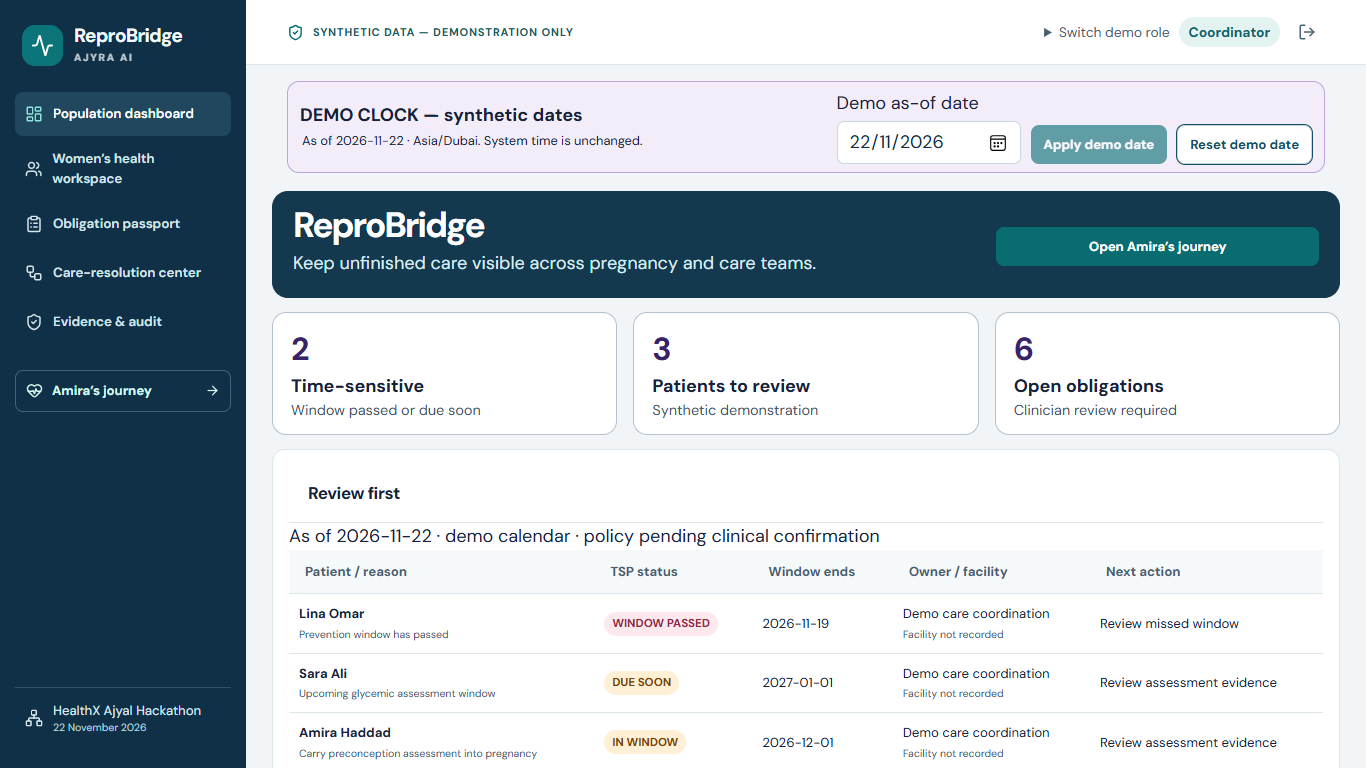
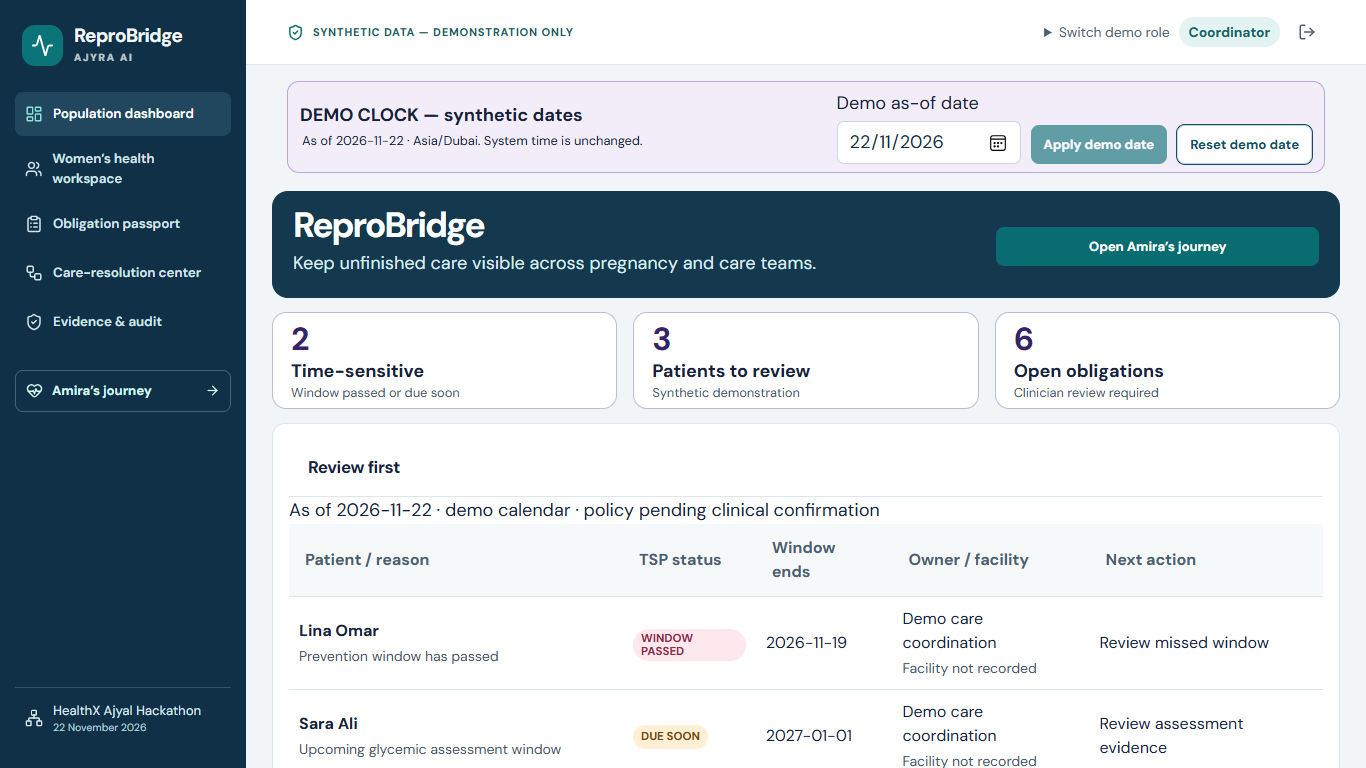
test(dashboard): verify projector views role switching and full release gates

diff --git a/frontend/src/style.css b/frontend/src/style.css
@@ -316,3 +316,7 @@ a.record-link:hover { background: #f0f7f8; }
 body { font-size: 18px; color: #17213a; } .jury-hero { padding: 24px; min-height: 0; } .jury-hero h1 {font-size: 2.6rem;} .jury-kpis {display:grid;grid-template-columns:repeat(3,minmax(0,1fr));gap:16px;} .jury-kpis>div {background:white;border:1px solid #b6c0ce;border-radius:14px;padding:20px;display:grid;} .jury-kpis strong {font-size:2.4rem;color:#382369;} .jury-kpis span {font-weight:700;} .jury-kpis small,.jury-activity small {display:block;color:#44536a;} .jury-activity {list-style:none;padding:0;display:grid;gap:16px;} .admin-content {display:grid;gap:20px;margin-top:20px;} .journey-strip {display:flex;flex-wrap:wrap;gap:14px;background:#f0eaf8;padding:14px;border-radius:12px;} td small {display:block;color:#44536a;} @media(max-width:600px){.jury-kpis{grid-template-columns:1fr;} .jury-hero{display:grid;} }
 
 @media(min-width:1000px){body:has(.jury-hero) main{padding:18px 26px;gap:14px;}body:has(.jury-hero) .tsp-clock{display:flex;justify-content:space-between;align-items:center;padding:8px 12px;}body:has(.jury-hero) .tsp-clock p{margin:2px;font-size:.8rem;} .jury-hero{padding:14px 20px;} .jury-hero h1{margin:0;font-size:2.2rem;} .jury-hero p{margin:6px 0;} .jury-kpis>div{padding:12px 18px;} .jury-kpis strong{font-size:2rem;}body:has(.jury-hero) .panel{padding:16px;}body:has(.jury-hero) td{padding:10px;} }
+
+.jury-kpis + section.panel td, .jury-kpis + section.panel th {font-size:16px;} .jury-kpis + section.panel td small {font-size:14px;}
+
+.jury-kpis>div{padding:8px 18px;} .jury-kpis strong{line-height:1.15;} .jury-kpis small{font-size:.8rem;line-height:1.2;}

diff --git a/frontend/e2e/journey.spec.ts b/frontend/e2e/journey.spec.ts
@@ -351,5 +351,15 @@ test('completes the patient journey through all five screens', async ({ page }, 
     await page.setViewportSize({width,height});
     await page.screenshot({path:`../demo-assets/dashboard-${width}x${height}.png`,fullPage:false,animations:'disabled'});
   }
+  await page.getByText('Switch demo role', {exact:true}).click();
+  await page.getByRole('combobox',{name:'Demo role',exact:true}).selectOption('reviewer');
+  await page.getByLabel('Existing role token').fill(process.env.E2E_REVIEWER_TOKEN!);
+  await page.getByRole('button',{name:'Switch role',exact:true}).click();
+  await expect(page.locator('.role')).toHaveText('Reviewer');
+  if(!(await page.getByLabel('Existing role token').isVisible())) await page.getByText('Switch demo role',{exact:true}).click();
+  await page.getByRole('combobox',{name:'Demo role',exact:true}).selectOption('coordinator');
+  await page.getByLabel('Existing role token').fill(process.env.E2E_COORDINATOR_TOKEN!);
+  await page.getByRole('button',{name:'Switch role',exact:true}).click();
+  await expect(page.locator('.role')).toHaveText('Coordinator');
 
 });

diff --git a/DASHBOARD_REPORT.md b/DASHBOARD_REPORT.md
@@ -1,0 +1,38 @@
+# Jury dashboard v1
+
+**GO for the synthetic demo dashboard.** Branch `feat/jury-dashboard`, based on passing `handoff-v1`. Annotated tag `dashboard-v1`.
+
+## Changes
+- `backend/app/jury.py`, `main.py`: default idempotent three-patient cohort (Amira Haddad, Lina Omar, Sara Ali), with existing pregnancy/obligation/event APIs and unchanged TSP policy/calculator. Explicit `REPROBRIDGE_TEST_MODE=true` retains diagnostic fixture creation and the legacy single-patient seed for tests. No migration/dependency or clinical-rule change.
+- `frontend/src/Jury.tsx`, `screens.tsx`, `App.tsx`, `style.css`: first KPI Time-sensitive (backend WINDOW_PASSED + DUE_SOON); urgency-sorted queue, backend window ends, owner, facility and next action; one-line hero/one journey button; demo-only collapsed Admin drawer; plain activity with IDs/versions in tooltips and explicitly labeled demo-calendar dates; workspace pregnancy-week/window strip; larger/high-contrast presentation.
+- Role switch uses the existing selected role's token and verifies its role through the existing session API. It never reveals/fetches another role's token or bypasses patient grants. Tokens are password inputs and are cleared after successful switching.
+- Tests: `backend/tests/test_jury.py`, explicit test mode in `test_workflow.py` and `frontend/playwright.config.ts`; `frontend/src/Jury.test.tsx`, extended `frontend/e2e/journey.spec.ts`.
+- Playwright captures: `demo-assets/dashboard-1366x768.png`, `dashboard-1920x1080.png`.
+
+## Verification (each invocation, not cumulative coverage)
+| Artifact / command | Actual result |
+|---|---|
+| dashboard-stage1.xml | 28 passed |
+| Initial frontend build / dashboard-components.xml | Build passed / 34 passed |
+| dashboard-browser.json | 1 failed: legacy registry assertions now inside collapsed Admin |
+| Second frontend build / dashboard-components-final.xml | Build passed / 37 passed |
+| dashboard-browser-retry.json | 1 passed; initial captures visually caught before queue loaded |
+| Fixture-gate edit attempt / dashboard-fixture-gate.xml | Relative-path edit failed; unchanged one-test invocation passed |
+| dashboard-fixture-gate-retry.xml | 9 passed after corrected gate implementation |
+| Initial full dashboard-sqlite.xml | 218 passed |
+| Initial full dashboard-postgres.xml | 218 passed |
+| Third build / dashboard-release-components.xml | Build passed / 37 passed |
+| dashboard-browser-final.json | 1 passed; captures wait for three names and fonts |
+| Fourth build / dashboard-projector-components.xml | Build passed / 37 passed |
+| dashboard-browser-role-switch.json | 1 failed: label selector did not resolve observed Demo role combobox |
+| Fifth build / dashboard-layout-components.xml | Build passed / 37 passed |
+| Final dashboard-release-sqlite.xml | 218 passed |
+| Final dashboard-release-postgres.xml | 218 passed |
+| dashboard-browser-release.json | 1 passed, including Coordinator → Reviewer → Coordinator |
+
+All original 217 backend tests and 33 React tests are retained. Failed reports retain distinct filenames. Browser coverage retains legacy/TSP/handoff gates and adds the jury cohort, screenshots and positive role switching. No live LLM calls. The first local smoke request raced server startup (connection refused); health-ready retry succeeded: three expected backend statuses, diagnostic fixture gate 403, saved in `test-reports/dashboard-runtime.json`.
+
+## Semantics and limits
+Existing source history is preserved: old diagnostic patients are not deleted from an existing database; the default jury cohort is three plain-named patients, while historical/diagnostic records remain available administratively. A fresh default seed creates exactly three patients. Reset and diagnostic tools live in Admin; diagnostic creation requires explicit test mode. Facility absence is shown as “Facility not recorded,” never inferred. Reviewers still see only granted patients. Activity dates are a labeled demo-calendar projection; original audit timestamps remain unchanged. Week labels are display arithmetic from dating inputs; all window/status/closure/eligibility authority stays with existing backend services and human review. No empirical five-second usability study is claimed. Existing clinical-policy/citation limitations remain in force. No merge, push, force-push or history rewriting.
+
+Final SQLite duration 245.45 s; PostgreSQL 671.88 s. All final suites have zero failures/errors/skips; browser zero flakes. Both final PNGs were visually inspected. At 1366×768 the urgent rows are prioritized above the fold and the queue continues vertically; 1920×1080 shows all three. Aggregate evidence: `test-reports/dashboard-release-summary.json`. Screenshots were captured after all three names and fonts loaded. Source and medical-history records were not deleted to clean the default presentation.
